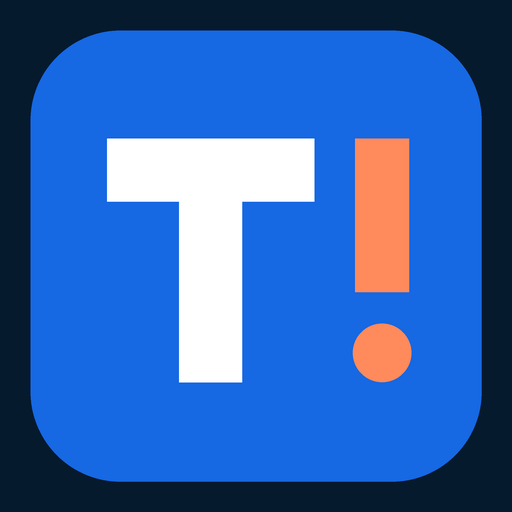
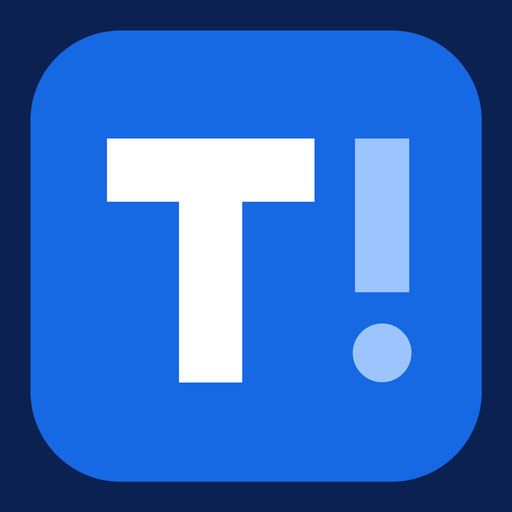
Recolor Theopardy! in blue and white only
Coral and mint are gone. The ground is a bluer navy, tiles stay bright
blue with white numbers, main actions are white, and secondary accents
are light blue. Team 1 is white and team 2 is light blue. The app icon
and theme color follow.

Changed region(s): [[0.0, 0.0, 1.0, 1.0], [0.6875, 0.25, 0.8125, 0.5938], [0.6875, 0.625, 0.8125, 0.75]]

diff --git a/src/games/theopardy/theme.css b/src/games/theopardy/theme.css
@@ -3,8 +3,8 @@
 @tailwind utilities;
 
 /*
- * Theopardy!'s own look: deep navy ground, bright blue tiles with white numbers,
- * coral for actions and focus. Team 1 is coral, team 2 is mint. No gold anywhere.
+ * Theopardy!'s own look, in blue and white only: navy ground, bright blue tiles with
+ * white numbers, white for main actions. Team 1 is white, team 2 is light blue.
  */
 
 :root {
@@ -21,8 +21,8 @@
   }
   body {
     margin: 0;
-    background-color: #061a2e;
-    color: #eaf3ff;
+    background-color: #0a2152;
+    color: #ffffff;
     font-family: var(--tp-font);
     -webkit-font-smoothing: antialiased;
   }
@@ -33,11 +33,11 @@
     letter-spacing: -0.01em;
   }
   :focus-visible {
-    outline: 3px solid #ff8a5b;
+    outline: 3px solid #ffffff;
     outline-offset: 3px;
   }
   ::selection {
-    background: rgba(22, 104, 227, 0.55);
+    background: rgba(127, 178, 255, 0.45);
   }
 }
 
@@ -56,16 +56,16 @@
     @apply bg-sea-500 text-white hover:bg-sea-400;
   }
   .tp-btn-accent {
-    @apply bg-coral-400 text-coral-900 hover:bg-coral-300;
+    @apply bg-white text-sea-950 hover:bg-sea-200;
   }
   .tp-btn-ghost {
     @apply bg-sea-700 text-sea-100 hover:bg-sea-600;
   }
   .tp-btn-good {
-    @apply bg-mint-300 text-mint-900 hover:brightness-105;
+    @apply bg-white text-sea-950 hover:bg-sea-200;
   }
   .tp-btn-bad {
-    @apply border-2 border-coral-400 bg-transparent text-coral-300 hover:bg-coral-400/10;
+    @apply border-2 border-ice-300 bg-transparent text-ice-300 hover:bg-white/10;
   }
   .tp-btn-sm {
     @apply min-h-[44px] px-3.5 py-1.5 text-base;
@@ -109,12 +109,12 @@
  * classes it can't find written out in the code.
  */
 .tp-team-0 {
-  background-color: #ffd3b8;
-  color: #3b1503;
+  background-color: #ffffff;
+  color: #0a2152;
 }
 .tp-team-1 {
-  background-color: #8ef0d0;
-  color: #053527;
+  background-color: #9cc4ff;
+  color: #06235e;
 }
 
 @keyframes tp-pop {

diff --git a/src/games/theopardy/screens/NewGameScreen.tsx b/src/games/theopardy/screens/NewGameScreen.tsx
@@ -52,7 +52,7 @@ export function NewGameScreen() {
   return (
     <form className="flex flex-col gap-5" onSubmit={start}>
       <h1 className="text-4xl">{t('New game')}</h1>
-      {inProgress && <p className="rounded-xl border-2 border-coral-400 p-3 font-semibold text-coral-300">{t('A game is in progress. Starting a new one replaces it.')}</p>}
+      {inProgress && <p className="rounded-xl border-2 border-ice-300 p-3 font-semibold text-ice-300">{t('A game is in progress. Starting a new one replaces it.')}</p>}
 
       <div className="tp-panel grid gap-4 sm:grid-cols-2">
         {[0, 1].map((i) => (
@@ -98,12 +98,12 @@ export function NewGameScreen() {
       </div>
 
       <label className="flex items-center gap-3 text-lg font-semibold">
-        <input type="checkbox" className="h-6 w-6 accent-coral-400" checked={openTv} onChange={(e) => setOpenTv(e.target.checked)} />
+        <input type="checkbox" className="h-6 w-6 accent-ice-400" checked={openTv} onChange={(e) => setOpenTv(e.target.checked)} />
         {t('Open the game screen in a new window for the TV')}
       </label>
 
       {error && (
-        <p className="rounded-xl border-2 border-coral-400 p-3 font-semibold text-coral-300" role="alert">
+        <p className="rounded-xl border-2 border-ice-300 p-3 font-semibold text-ice-300" role="alert">
           {error}
         </p>
       )}

diff --git a/src/games/theopardy/components/parts.tsx b/src/games/theopardy/components/parts.tsx
@@ -6,7 +6,7 @@ export const TEAMS: readonly TeamIndex[] = [0, 1];
 export function Wordmark({ className = '' }: { className?: string }) {
   return (
     <span className={`font-extrabold leading-none tracking-tight text-sea-100 ${className}`}>
-      Theopardy<span className="text-coral-400">!</span>
+      Theopardy<span className="text-ice-400">!</span>
     </span>
   );
 }
@@ -19,7 +19,7 @@ export function ScoreChips({ state, lead = null, size = 'md' }: { state: GameSta
       {TEAMS.map((team) => (
         <div
           key={team}
-          className={`tp-team-${team} flex items-center rounded-xl ${tv ? 'gap-[0.9vw] px-[1.4vw] py-[0.6vw]' : 'gap-3 px-4 py-2'} ${lead === team ? 'ring-4 ring-white' : ''}`}
+          className={`tp-team-${team} flex items-center rounded-xl ${tv ? 'gap-[0.9vw] px-[1.4vw] py-[0.6vw]' : 'gap-3 px-4 py-2'} ${lead === team ? 'ring-4 ring-ice-400 ring-offset-4 ring-offset-sea-950' : ''}`}
         >
           <span className={`font-semibold ${tv ? 'text-[clamp(0.9rem,1.35vw,1.6rem)]' : 'text-base'}`}>{state.config.teams[team].name}</span>
           <span className={`font-extrabold tabular-nums ${tv ? 'text-[clamp(1.3rem,2.4vw,2.8rem)]' : 'text-2xl'}`}>{state.scores[team].toLocaleString()}</span>

diff --git a/src/games/theopardy/components/RemotePanel.tsx b/src/games/theopardy/components/RemotePanel.tsx
@@ -10,7 +10,7 @@ function QrCode({ text, label }: { text: string; label: string }) {
   useEffect(() => {
     let alive = true;
     import('qrcode')
-      .then((QR) => QR.toString(text, { type: 'svg', margin: 1, errorCorrectionLevel: 'M', color: { dark: '#061A2E', light: '#FFFFFF' } }))
+      .then((QR) => QR.toString(text, { type: 'svg', margin: 1, errorCorrectionLevel: 'M', color: { dark: '#0A2152', light: '#FFFFFF' } }))
       .then((markup) => alive && setSvg(markup))
       .catch(() => alive && setSvg(null));
     return () => {
@@ -62,7 +62,7 @@ export function RemotePanel() {
               <p className="mt-1 text-center font-semibold" role="status">
                 {status}
               </p>
-              {remote.error && <p className="mt-2 text-center text-sm text-coral-300">{t(remote.error, remote.errorVars)}</p>}
+              {remote.error && <p className="mt-2 text-center text-sm text-ice-300">{t(remote.error, remote.errorVars)}</p>}
               <div className="mt-4 flex flex-wrap justify-center gap-2">
                 <button type="button" className="tp-btn tp-btn-sm tp-btn-ghost" onClick={() => void newRoomCode()}>
                   {t('New code')}

diff --git a/tailwind.config.js b/tailwind.config.js
@@ -32,21 +32,20 @@ export default {
         },
         cream: '#fff7e6',
         ink: '#1b1446',
-        // Theopardy!
+        // Theopardy!: blue and white only
         sea: {
-          950: '#061A2E',
-          900: '#0A2239',
-          800: '#0D2A47',
-          700: '#17385C',
-          600: '#1F4C7A',
+          950: '#0A2152',
+          900: '#0D2A66',
+          800: '#12357A',
+          700: '#24479A',
+          600: '#2F58B8',
           500: '#1668E3',
           400: '#4C8DF0',
-          300: '#9DB8D9',
-          200: '#C9DBF2',
-          100: '#EAF3FF',
+          300: '#B5CBF5',
+          200: '#D3E1FA',
+          100: '#F4F8FF',
         },
-        coral: { 300: '#FFD3B8', 400: '#FF8A5B', 500: '#F26A3D', 900: '#3B1503' },
-        mint: { 300: '#8EF0D0', 900: '#053527' },
+        ice: { 300: '#9CC4FF', 400: '#7FB2FF', 900: '#06235E' },
       },
       fontFamily: {
         display: ['"Fredoka Variable"', 'Fredoka', 'ui-rounded', 'system-ui', 'sans-serif'],

diff --git a/src/games/theopardy/screens/GameScreen.tsx b/src/games/theopardy/screens/GameScreen.tsx
@@ -128,7 +128,7 @@ export function GameScreen() {
                   {active.missed.length === 0 && <p className={`${NOTE} text-sea-300`}>{t('A wrong answer costs nothing.')}</p>}
                 </>
               ) : (
-                <p className={`${NOTE} text-coral-300`}>{t('Buzzers are open')}</p>
+                <p className={`${NOTE} text-ice-300`}>{t('Buzzers are open')}</p>
               )
             }
           >
@@ -184,7 +184,7 @@ export function GameScreen() {
     case 'finalClue':
       view = (
         <Frame state={state} middle={t('Final round')}>
-          <Card label={t('Final round')} footer={<p className={`${NOTE} text-coral-300`}>{t('Talk it over and write down your answer.')}</p>}>
+          <Card label={t('Final round')} footer={<p className={`${NOTE} text-ice-300`}>{t('Talk it over and write down your answer.')}</p>}>
             <p className={CLUE_TEXT}>{state.final?.clue.prompt}</p>
           </Card>
         </Frame>

diff --git a/src/games/theopardy/screens/PhoneScreens.tsx b/src/games/theopardy/screens/PhoneScreens.tsx
@@ -52,7 +52,7 @@ export function JoinScreen() {
         />
       </div>
       {remote.error && (
-        <div className="rounded-xl border-2 border-coral-400 p-3 text-coral-300" role="alert">
+        <div className="rounded-xl border-2 border-ice-300 p-3 text-ice-300" role="alert">
           <p className="font-semibold">{t(remote.error, remote.errorVars)}</p>
           {remote.role === 'remote' && (
             <button type="button" className="tp-btn tp-btn-sm tp-btn-ghost mt-2" onClick={retryJoin}>

diff --git a/src/games/theopardy/engine/createGame.ts b/src/games/theopardy/engine/createGame.ts
@@ -4,8 +4,8 @@ import { LEVELS, type ClueQuestion, type Level } from '../../../core/questions/t
 import { GAME_SCHEMA_VERSION, type Board, type GameConfig, type GameState, type TeamConfig, type Tile } from '../types';
 
 export const DEFAULT_TEAMS: [TeamConfig, TeamConfig] = [
-  { name: 'Team 1', color: 'sky' },
-  { name: 'Team 2', color: 'coral' },
+  { name: 'Team 1', color: 'white' },
+  { name: 'Team 2', color: 'ice' },
 ];
 
 export const DEFAULT_CONFIG: Omit<GameConfig, 'teams'> = {

diff --git a/src/games/theopardy/App.tsx b/src/games/theopardy/App.tsx
@@ -69,7 +69,7 @@ export default function App() {
         <LangToggle />
       </header>
       {reconnecting && (
-        <p className="mb-4 rounded-xl border-2 border-coral-400 p-3 font-semibold text-coral-300" role="status">
+        <p className="mb-4 rounded-xl border-2 border-ice-300 p-3 font-semibold text-ice-300" role="status">
           {t('Reconnecting to the TV…')}
         </p>
       )}

diff --git a/titles.config.ts b/titles.config.ts
@@ -39,8 +39,8 @@ export const TITLES: Record<string, TitleInfo> = {
     description: 'A Bible clue board game for two teams, designed for family worship.',
     storagePrefix: 'theopardy:',
     peerPrefix: 'theopardy-v1-',
-    themeColor: '#061A2E',
-    backgroundColor: '#061A2E',
+    themeColor: '#0A2152',
+    backgroundColor: '#0A2152',
   },
 };
 

diff --git a/src/games/theopardy/head.html b/src/games/theopardy/head.html
@@ -1,3 +1,3 @@
-    <meta name="theme-color" content="#061A2E" />
+    <meta name="theme-color" content="#0A2152" />
     <meta name="description" content="A Bible clue board game for two teams, made for family worship. Pick a category, race to buzz, and learn something every round." />
     <title>Theopardy!</title>
